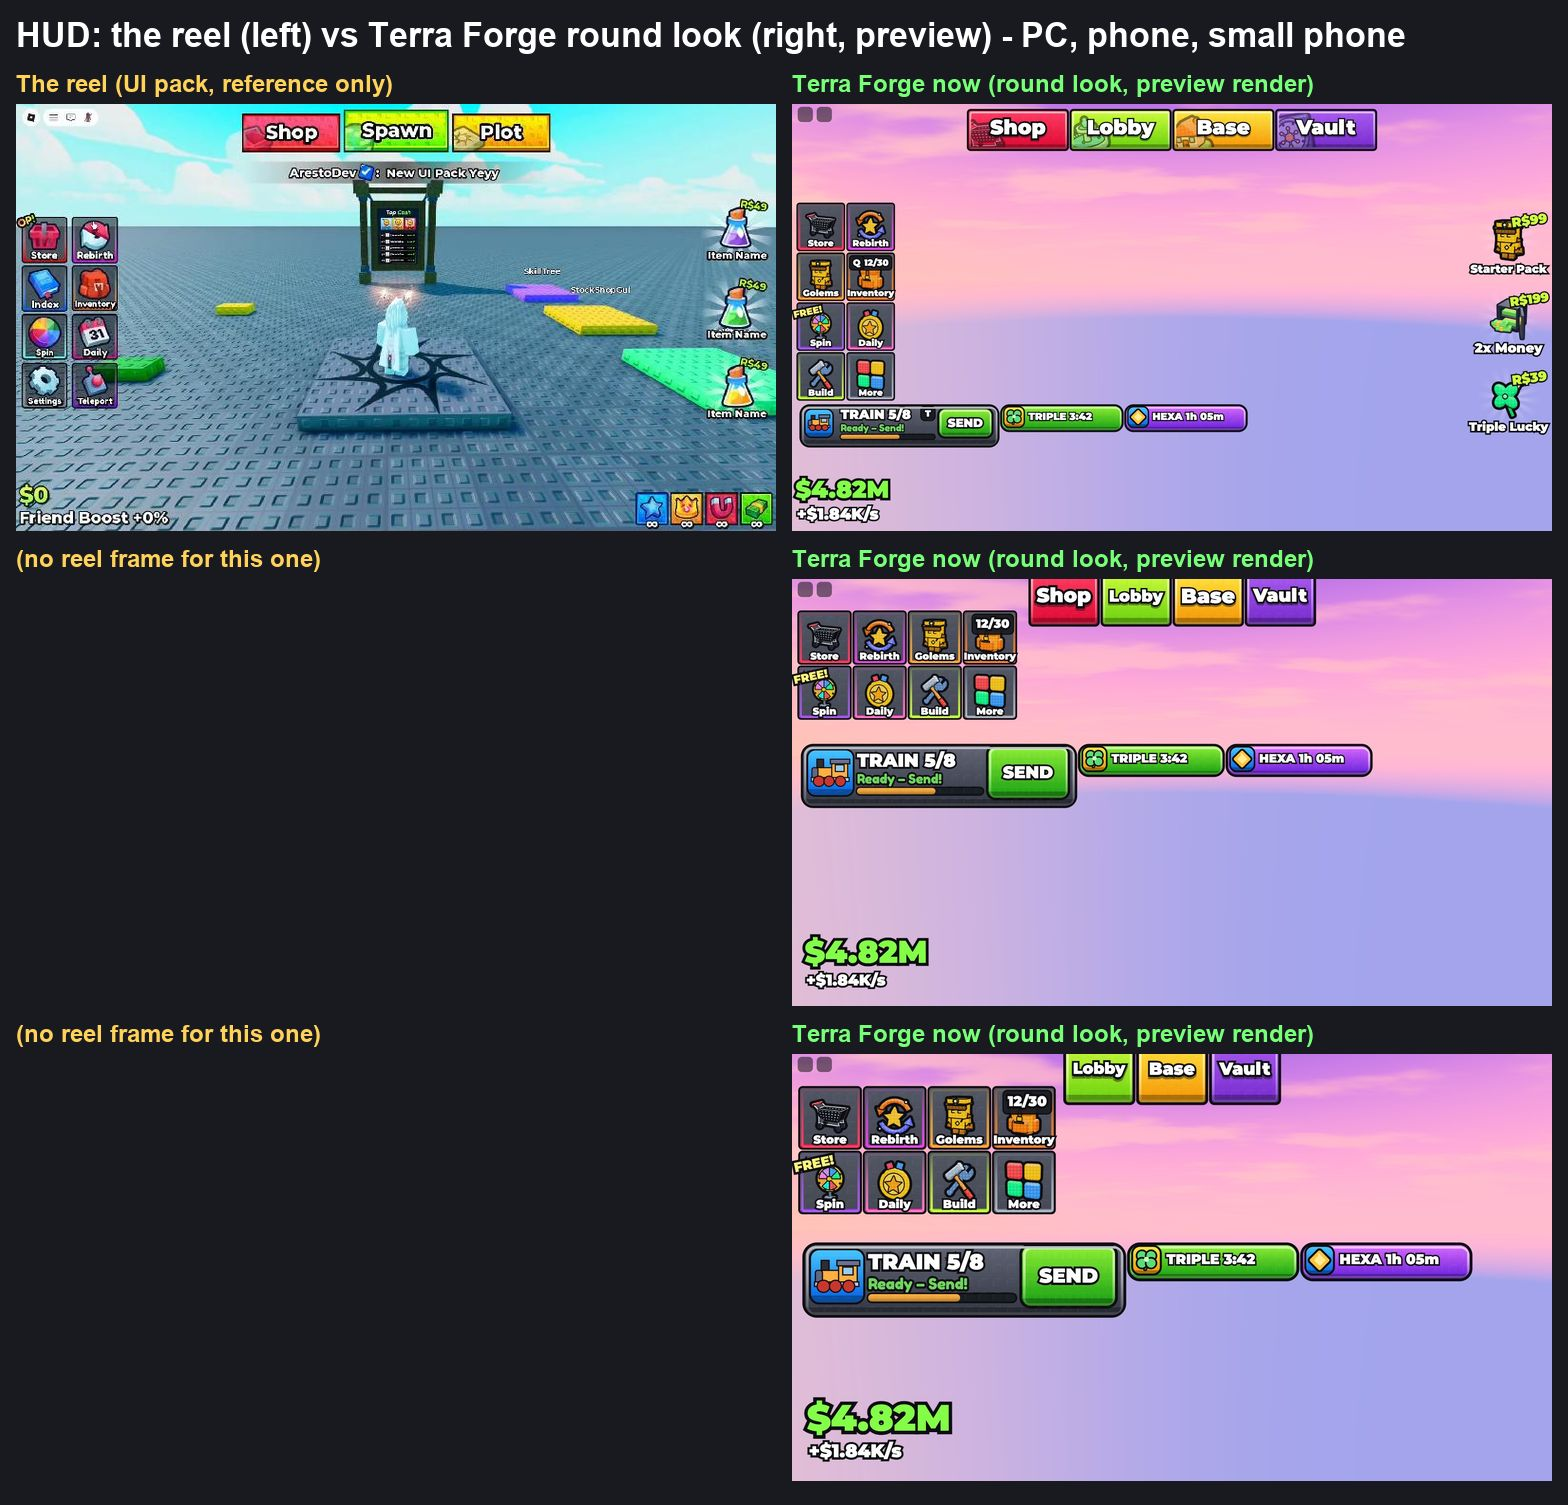
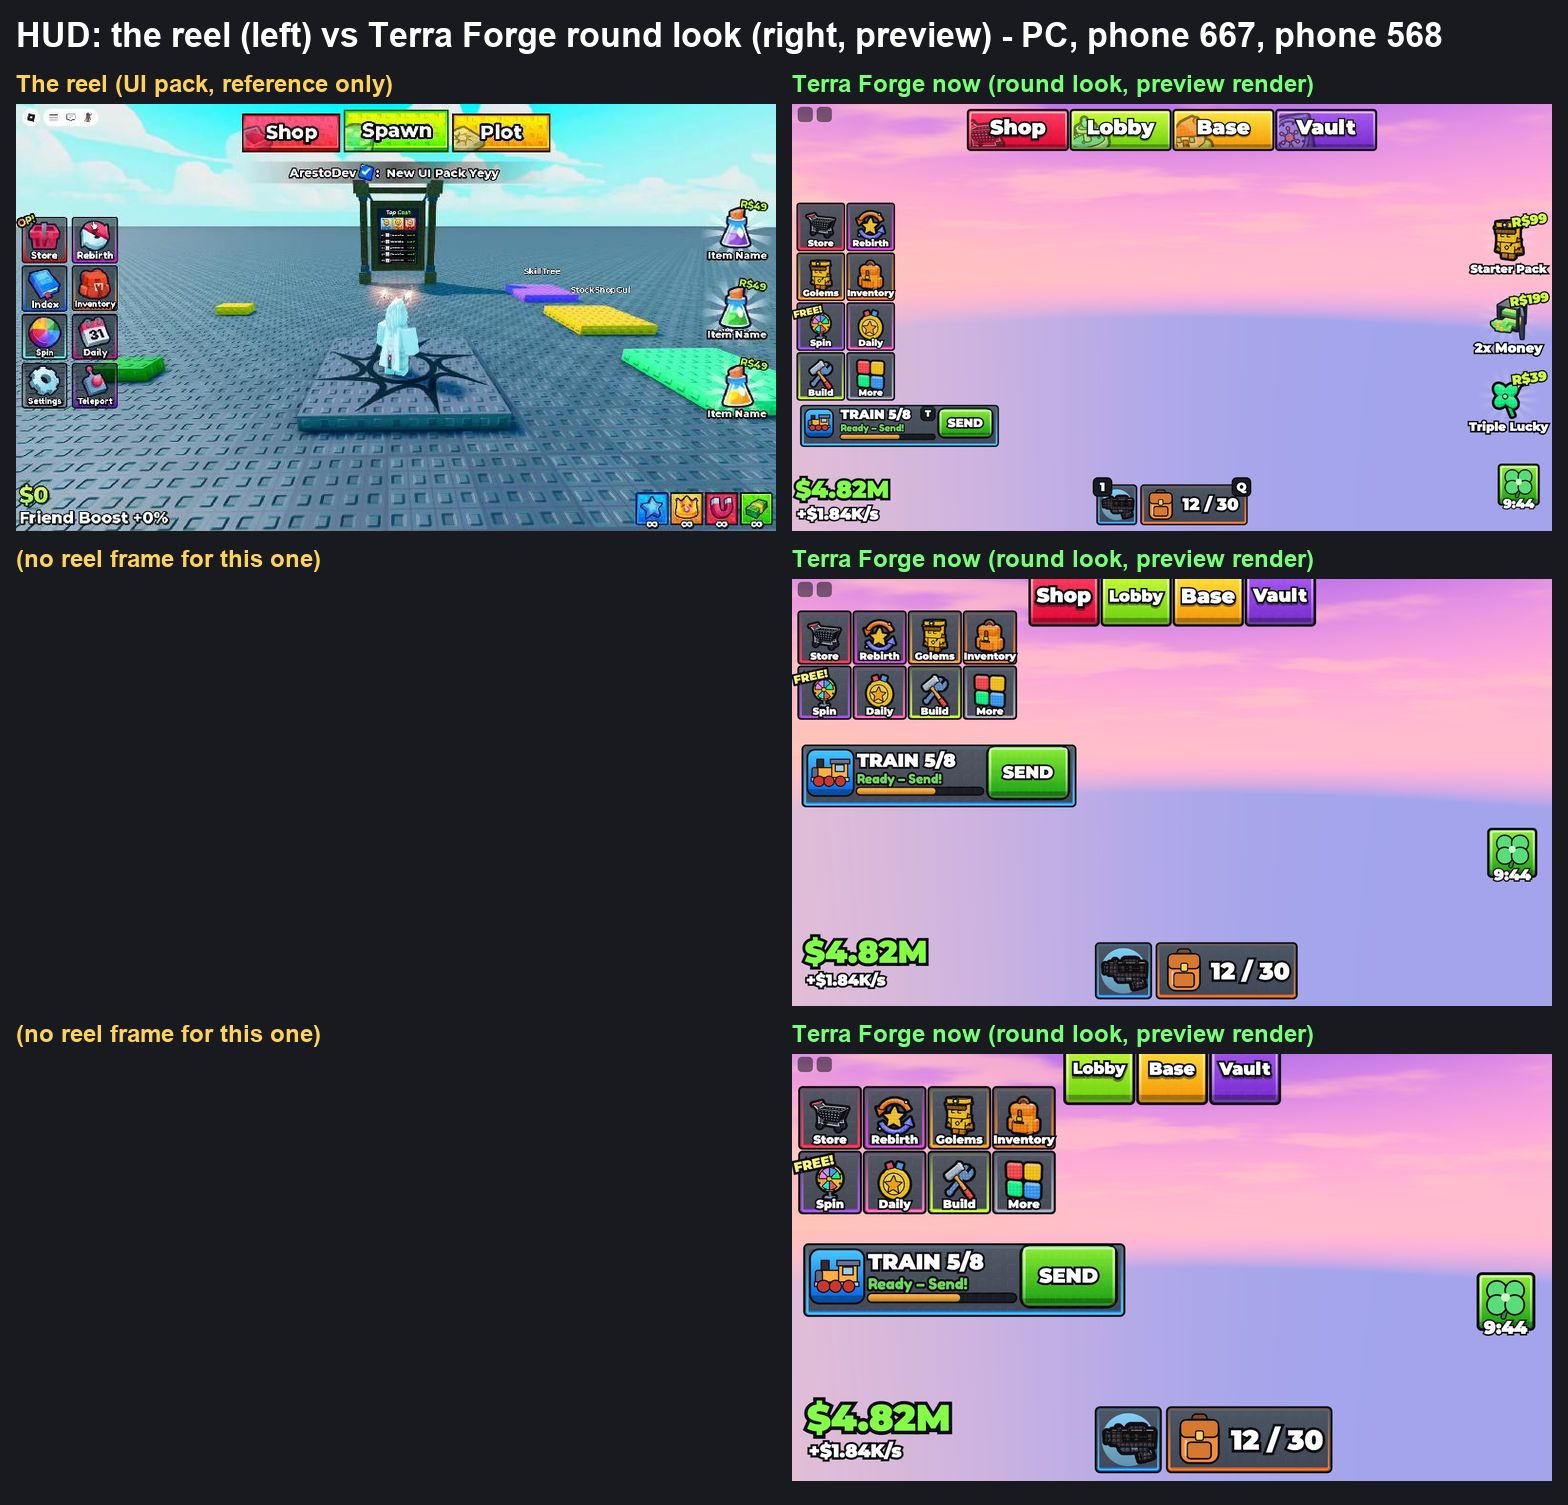
Reel 4 exact: sheets 01_hud (the bottom pair, the boost square, the train chip) and 06_rebirth_reel; the spec doc follows

diff --git a/docs/plans/UI_REEL4_EXACT.md b/docs/plans/UI_REEL4_EXACT.md
@@ -124,9 +124,10 @@ Motion (sampled every 1/60 s):
 - Left tiles (PC): 77 units, gaps 7, 10 from the left, their top 140 under Roblox's bar (the reel's rows
   285..772 px); phones keep four a row at the top. Icon 72 % of the tile, corners ~4, thin slate face with
   the tile's colour in a thin bottom lip and the rim.
-- The backpack: no bottom button in the round look; the Inventory tile carries a "12/30" badge in its top-right
-  corner (still the "Backpack" button in "Carry": HudView.setBackpack, Q / R1's key cap in the tile's other
-  corner, the flying ore aim at it). The classic look keeps the bottom button.
+- The bottom centre (owner 2026-10-28, newest): [BLASTER slot | backpack button] centred like on main, in the
+  round look as the reel's dark tiles with their colour in the lip and the edge (blue blaster, orange pack);
+  on phones the pair keeps out of Roblox's thumbstick zone (left edge at 40 % of the screen at least, both
+  looks). The Inventory tile stays in the grid with no count on it (the round-3 badge was dropped).
 - Offers: 74-unit pictures every 133 units, a white sunburst behind each, "R$99" lime letters tilted -8 deg,
   no box; money 40 + 27 units, 6 from the left, 12 from the bottom.
 - Store: 605 x 563 units (StoreView.Looks.Round), cards 569 wide in all (cash 183 x 132, gamepasses two a
@@ -134,20 +135,24 @@ Motion (sampled every 1/60 s):
   titles in a light tint of the card's colour; the limited banner drawn 918 wide and shrunk into the list.
 - Inventory (PC): at most 584 x 470 units (BackpackView.RoundMaxWidth / RoundMaxHeight), five cells a row.
 - Window X on PC bands: 0.66 of the band (48 of 73), 15 in; compact bands keep 0.82 (44 pt on phones).
-- Motion: AnimConfig.RoundMotion (off until the owner says yes; Motion.roundMotion / Motion.tune /
+- Motion: AnimConfig.RoundMotion (ON since the owner's OK, 2026-10-28; Motion.roundMotion / Motion.tune /
   Motion.roundPopScale): windows 0.5 -> 1.1 -> 1 in 0.2 s, hover +5 % in 0.1 s, press 0.93 for 0.1 s and back
   in 0.1 s, no shine or breathe loops; Reduce motion stills it like UIMotion. Clip:
   docs/screenshots/reels_2026-10-27/ui3/round_motion.mp4 (preview, tools/lune/export_round_motion.luau).
 
+- Rebirth (owner 2026-10-28: "like the rebirth in the other pictures"): the reel's window, 600 x 500 units:
+  "Rebirth N" -> "Rebirth N+1", two pills with real numbers (Forge Stars now -> after this rebirth; blaster
+  LV now -> the level a rebirth starts with), a dark box with one line and a bar toward the requirement
+  (the level this run counts of MinBlaster), Rebirth (the same SURE? second press) OR Not now (closes).
+  STAR SHOP and BLASTERS stay as small tabs (their pages get the old room back).
+- Boost corner (main 920906f2): the reel's bright studded squares, the time over the bottom edge; the train
+  chip a dark tile with a blue edge.
+
 ### What is still not 1:1, and why
-- The TRAIN chip and the TRIPLE / HEXA chips under the tiles: the reel has nothing there. The boosts move to the
-  bottom-right corner with ui/boost-corner (f495149b, not on main yet), and the boost chips are laid out off the
-  train chip (BoostView), so restyling that row now would collide with it. Once it lands: the train chip as a
-  compact dark square under the tiles ("5/8" under it), the corner squares like the reel's (square tile, icon,
-  "inf" or the time under it).
-- Windows built on MenuPanel (Star Forge, Codex, Settings, ...) keep their own sizes and dodge the old top-left
-  coins spot, so they sit right of the middle; the reel's are ~570 units wide and centred. Our Star Forge has
-  three columns of rules and tabs where the reel's Rebirth has one card: shrinking it to 569 x 481 cuts words.
+- The TRAIN chip stays a chip with SEND under the tiles (the reel has nothing there; its SEND and the T key are
+  game features); it now wears the dark tile look.
+- Windows built on MenuPanel keep their own sizes (Codex, Settings, Quests...): their content is richer than
+  the reel's single cards; they are centred like the reel's unless they would cover the left tiles.
 - Studs on the faces and bands need the ui_studs picture uploaded (the previews draw it); until then the bands
   keep the fine checker.
 - The reel's world blur behind open windows (a camera BlurEffect) is not built; ours dims.
